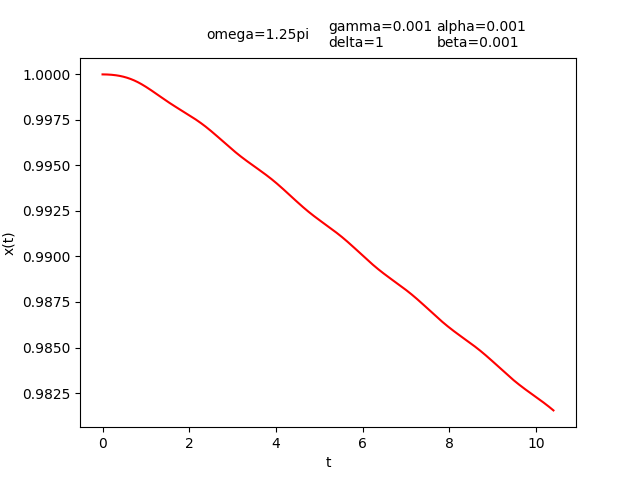
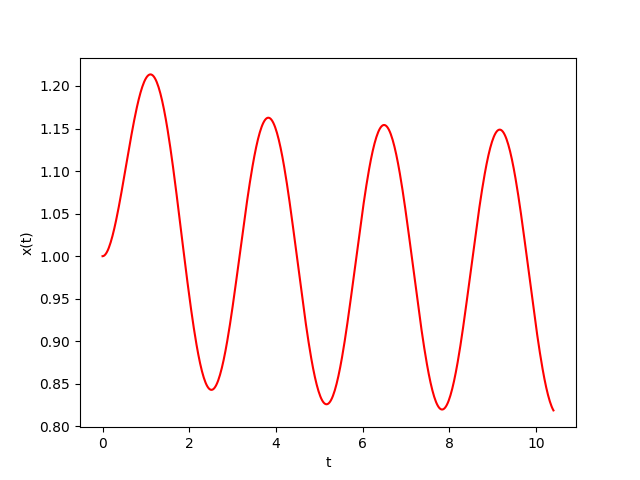
study_approx

diff --git a/src/numerical_methods/Runge_kut_scipy.py b/src/numerical_methods/Runge_kut_scipy.py
@@ -4,11 +4,11 @@ from scipy.integrate import odeint, solve_ivp
 import matplotlib.pyplot as plt
 import numpy as np
 
-gamma = 0.001
+gamma = 1
 delta = 1
 alpha = 0.001
 beta = 0.001
-l = 1.25
+l = 0.75
 omega = np.pi*l
 
 dots = 500
@@ -51,7 +51,7 @@ if __name__ == "__main__": # pragma: no cover
     plt.plot(t, sol.y[0, :], 'r')
     plt.xlabel('t')
     plt.ylabel('x(t)')
-    dl = (max(sol.y[0]) - min(sol.y[1]))*0.0015 # <- change the last parameter to align the labels
+    dl = (max(sol.y[0]) - min(sol.y[1]))*0.08 # <- change the last parameter to align the labels
     plt.text(t[-1]/2-2.8, max(sol.y[0, :])+1.3*dl, f"omega={'' if l==1 else l}pi")
     plt.text(t[-1]/2, max(sol.y[0])+1.6*dl, f"gamma={gamma}")
     plt.text(t[-1]/2, max(sol.y[0])+dl, f"delta={delta}")

diff --git a/src/Neural_network(PINN).py b/src/Neural_network(PINN).py
@@ -21,8 +21,8 @@ from tqdm import tqdm
 # b = a.method()
 
 # set the parameters of the equation
-gamma = 0.001
-delta = 0.02
+gamma = 1
+delta = 1
 alpha = 0.0001
 beta = 0.001
 omega = torch.pi*1.25
